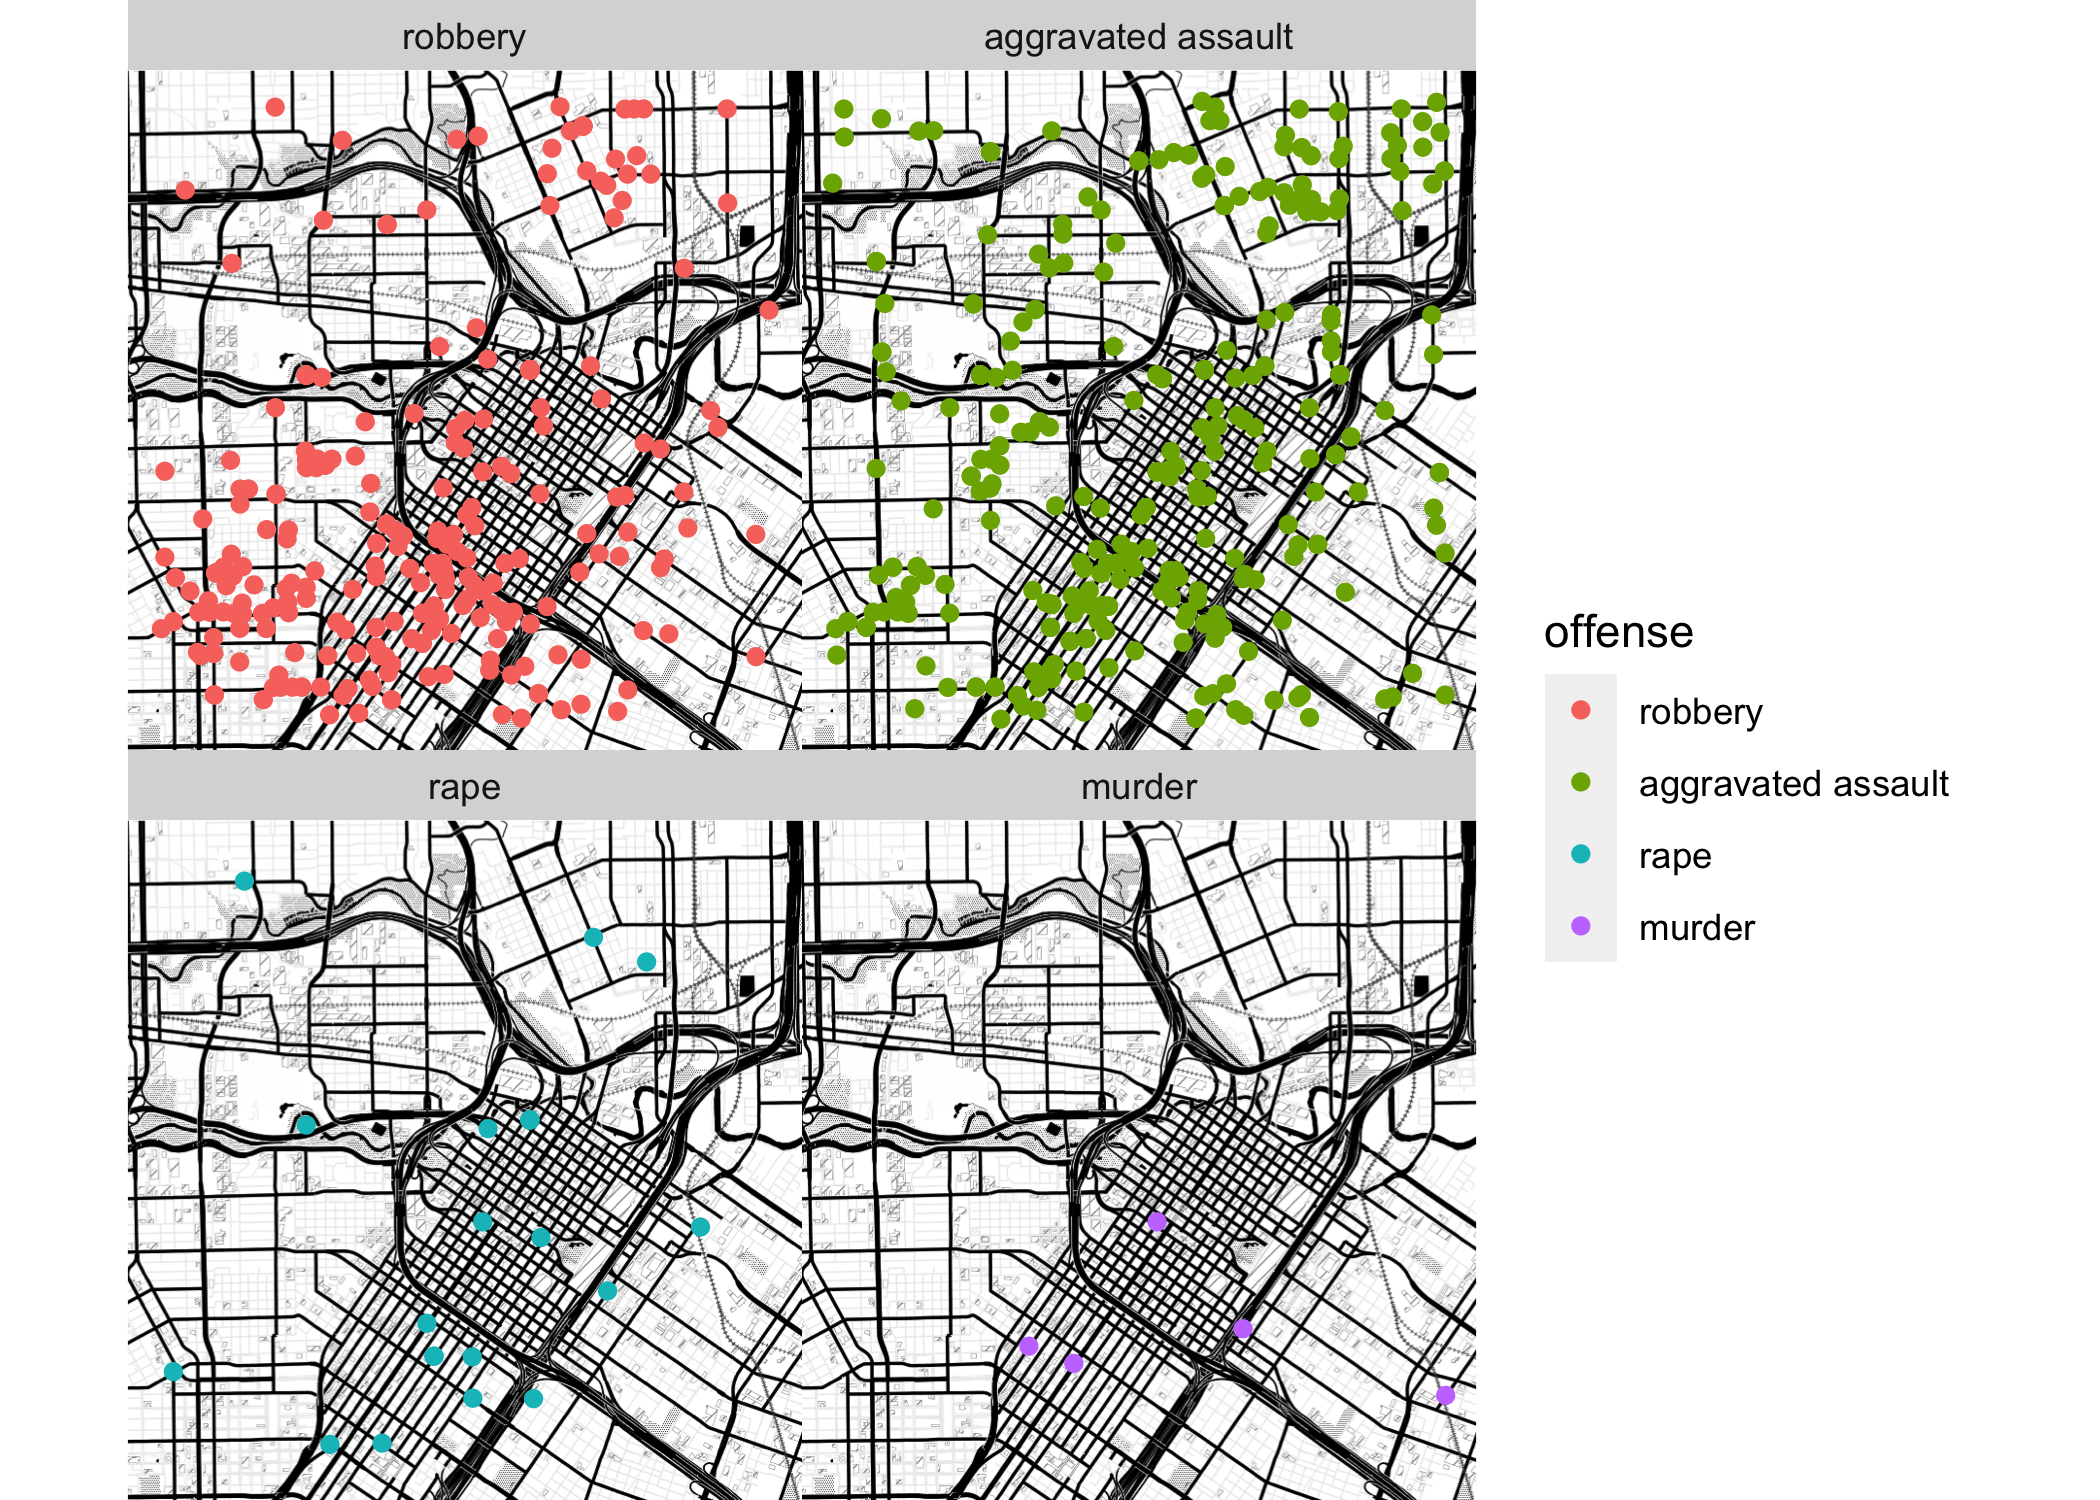
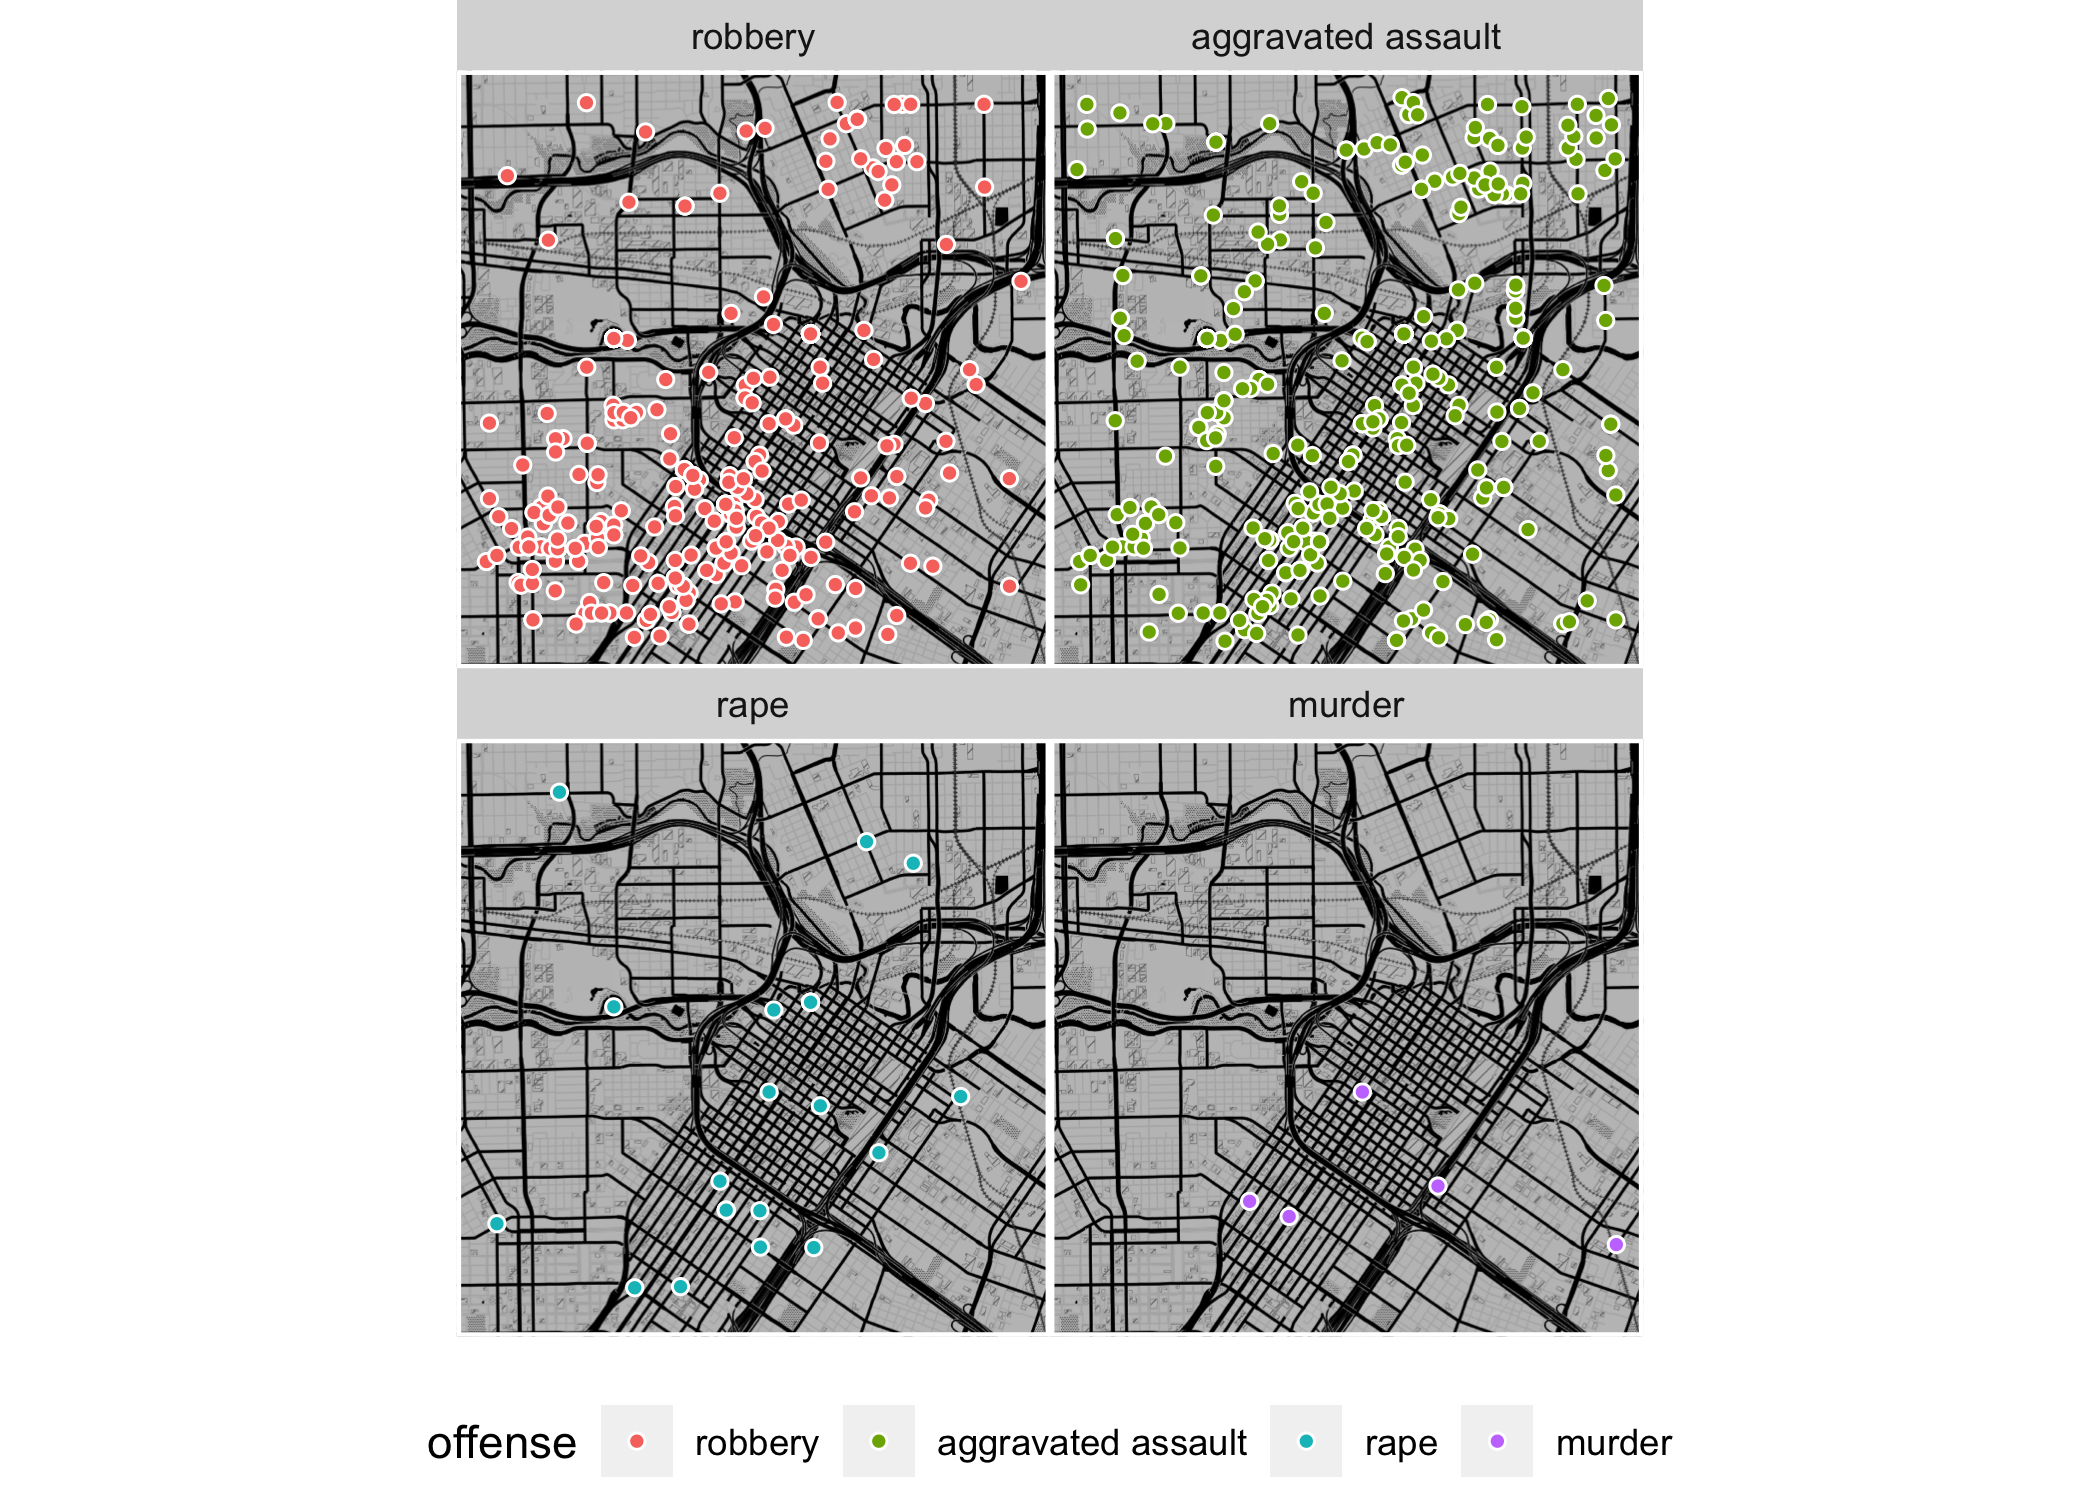
update readme faceting graphic

diff --git a/README.md b/README.md
@@ -121,8 +121,17 @@ qmplot(lon, lat, data = violent_crimes, geom = "blank",
 Faceting works, too:
 
 ``` r
-qmplot(lon, lat, data = violent_crimes, maptype = "stamen_toner_background", color = offense) + 
-  facet_wrap(~ offense)
+qmplot(
+  lon, lat, data = violent_crimes, 
+  maptype = "stamen_toner_background", 
+  geom = "point", shape = I(21), fill = offense, color = I("white"),
+  darken = .3
+) + 
+  facet_wrap(~ offense) +
+  theme(
+    legend.position = "bottom",
+    panel.border = element_rect(fill = NA, color = "white", linewidth = 1)
+  )
 #  ℹ Using `zoom = 14`
 #  ℹ © Stadia Maps © Stamen Design © OpenMapTiles © OpenStreetMap contributors.
 ```
